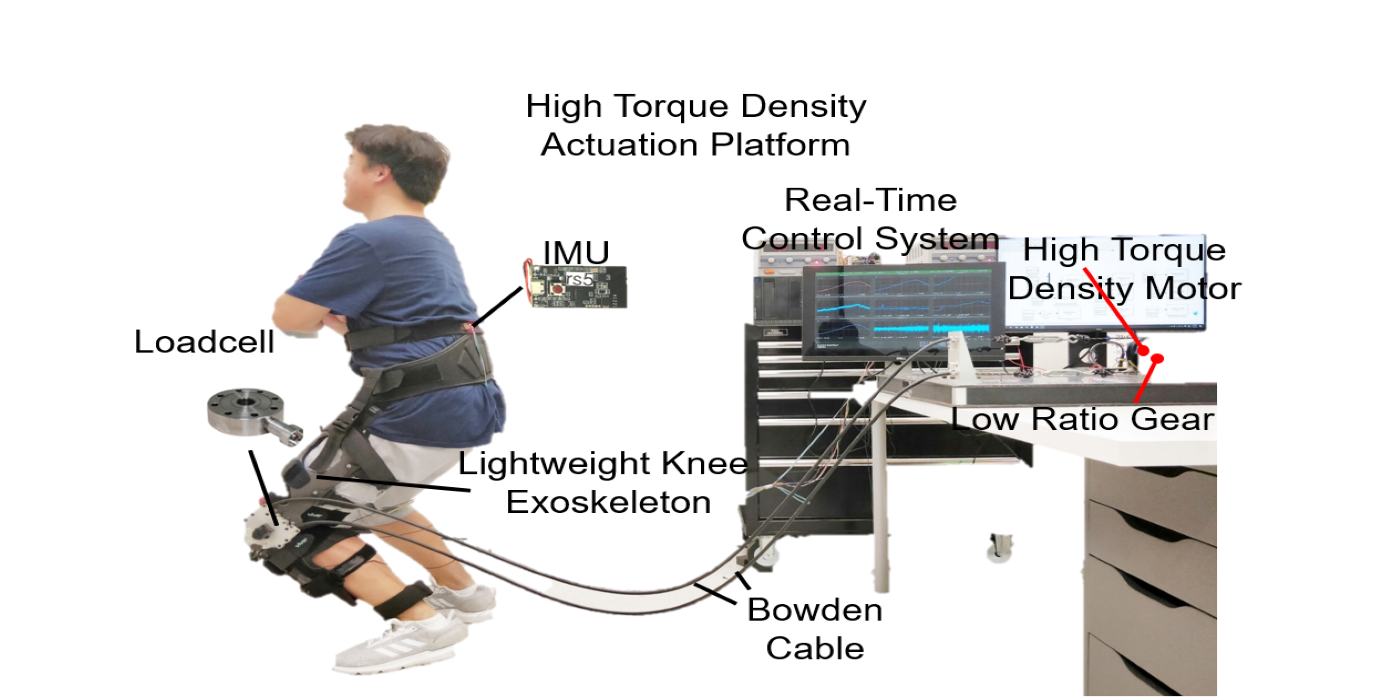
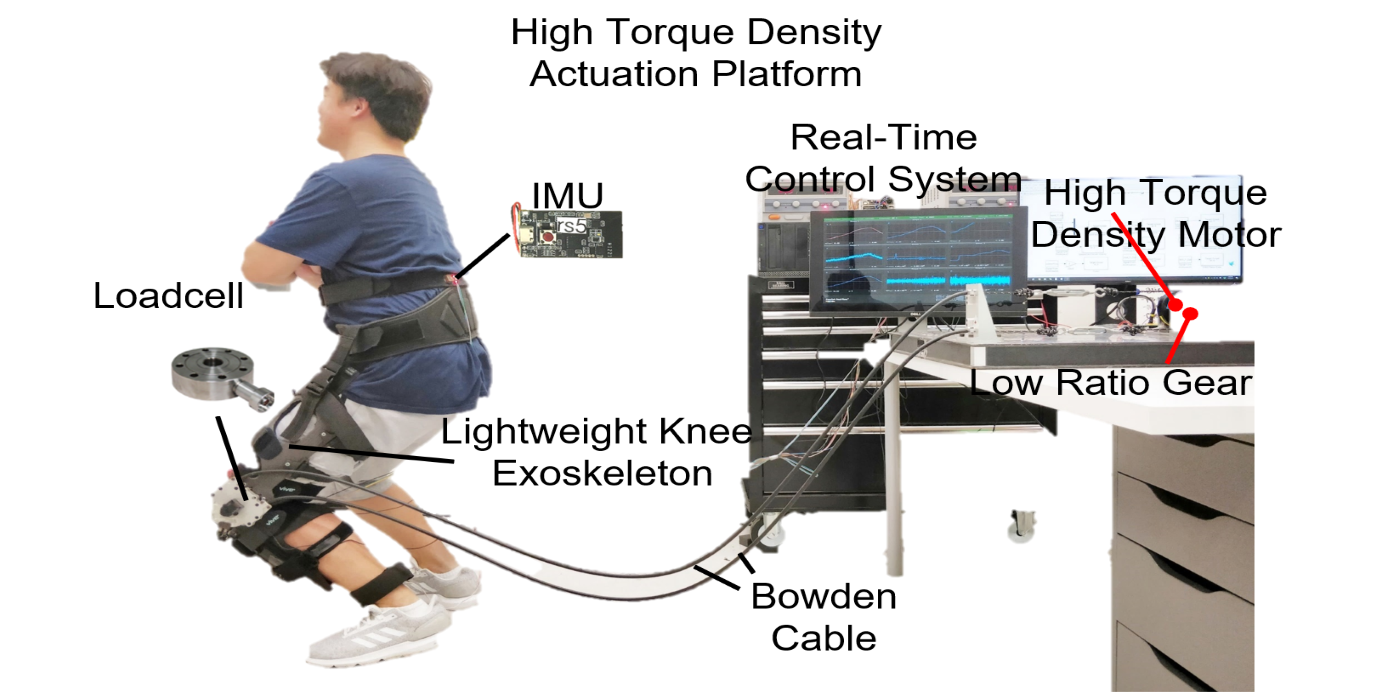
fix index pic issue

Changed region(s): [[0.0614, 0.03, 0.9214, 1.0], [0.7064, 0.72, 0.7371, 0.81]]

diff --git a/index.html b/index.html
@@ -40,7 +40,7 @@
 <body>
 
   <!-- ======= Header ======= -->
-  <header id="header" class="fixed-top">
+  <header id="header" class="top">
     <div class="d-flex align-items-center">
       <div class="p-2">
 
@@ -106,7 +106,7 @@
       <div class="carousel-inner" role="listbox">
 
         <!-- Slide 1 -->
-        <div class="carousel-item active" style="background-image: url(assets/img/slide/Picture1.png);">
+        <div class="carousel-item active" style="background-image: url(assets/img/slide/Picture5.png);">
 <!--          <div class="carousel-container">-->
 <!--            <div class="carousel-content animated fadeInUp">-->
 <!--              <h2>Welcome to <span>Company</span></h2>-->
